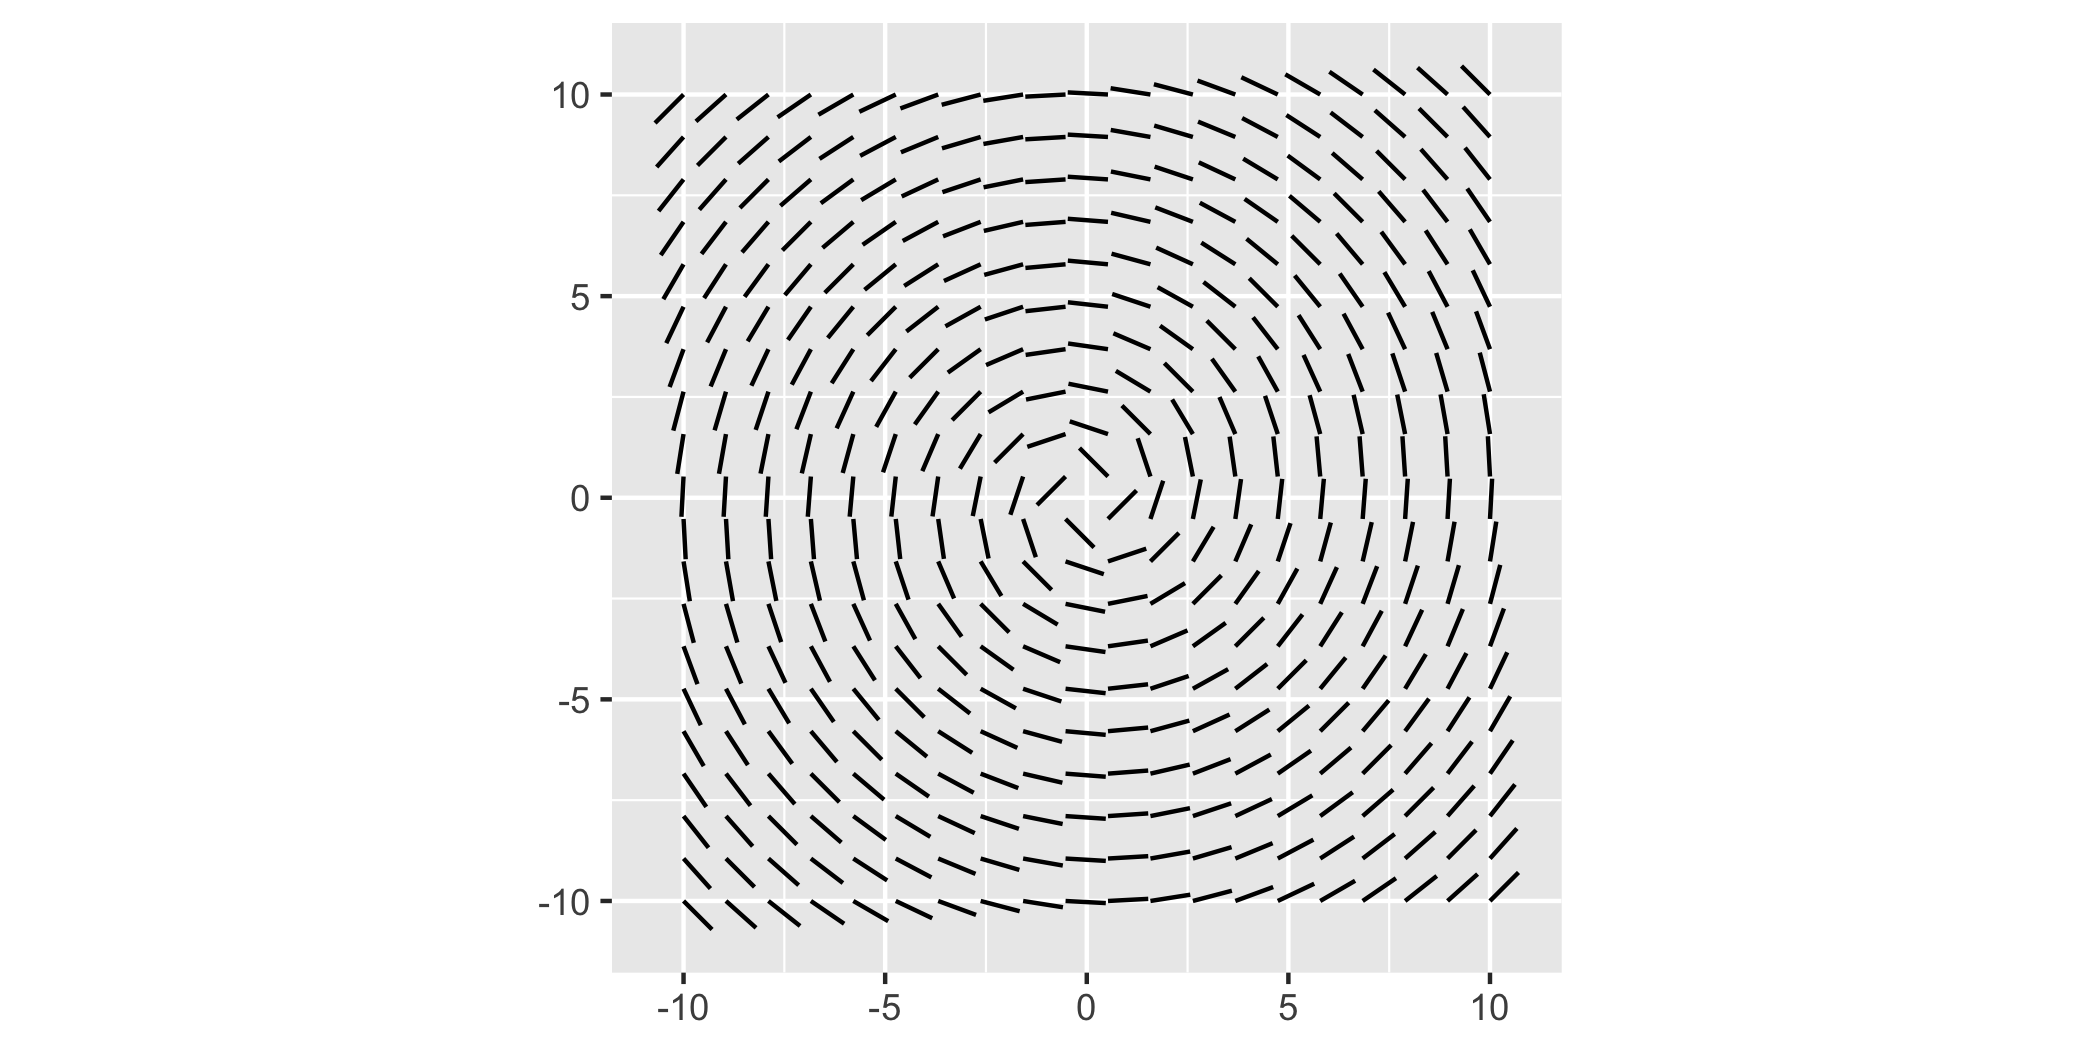
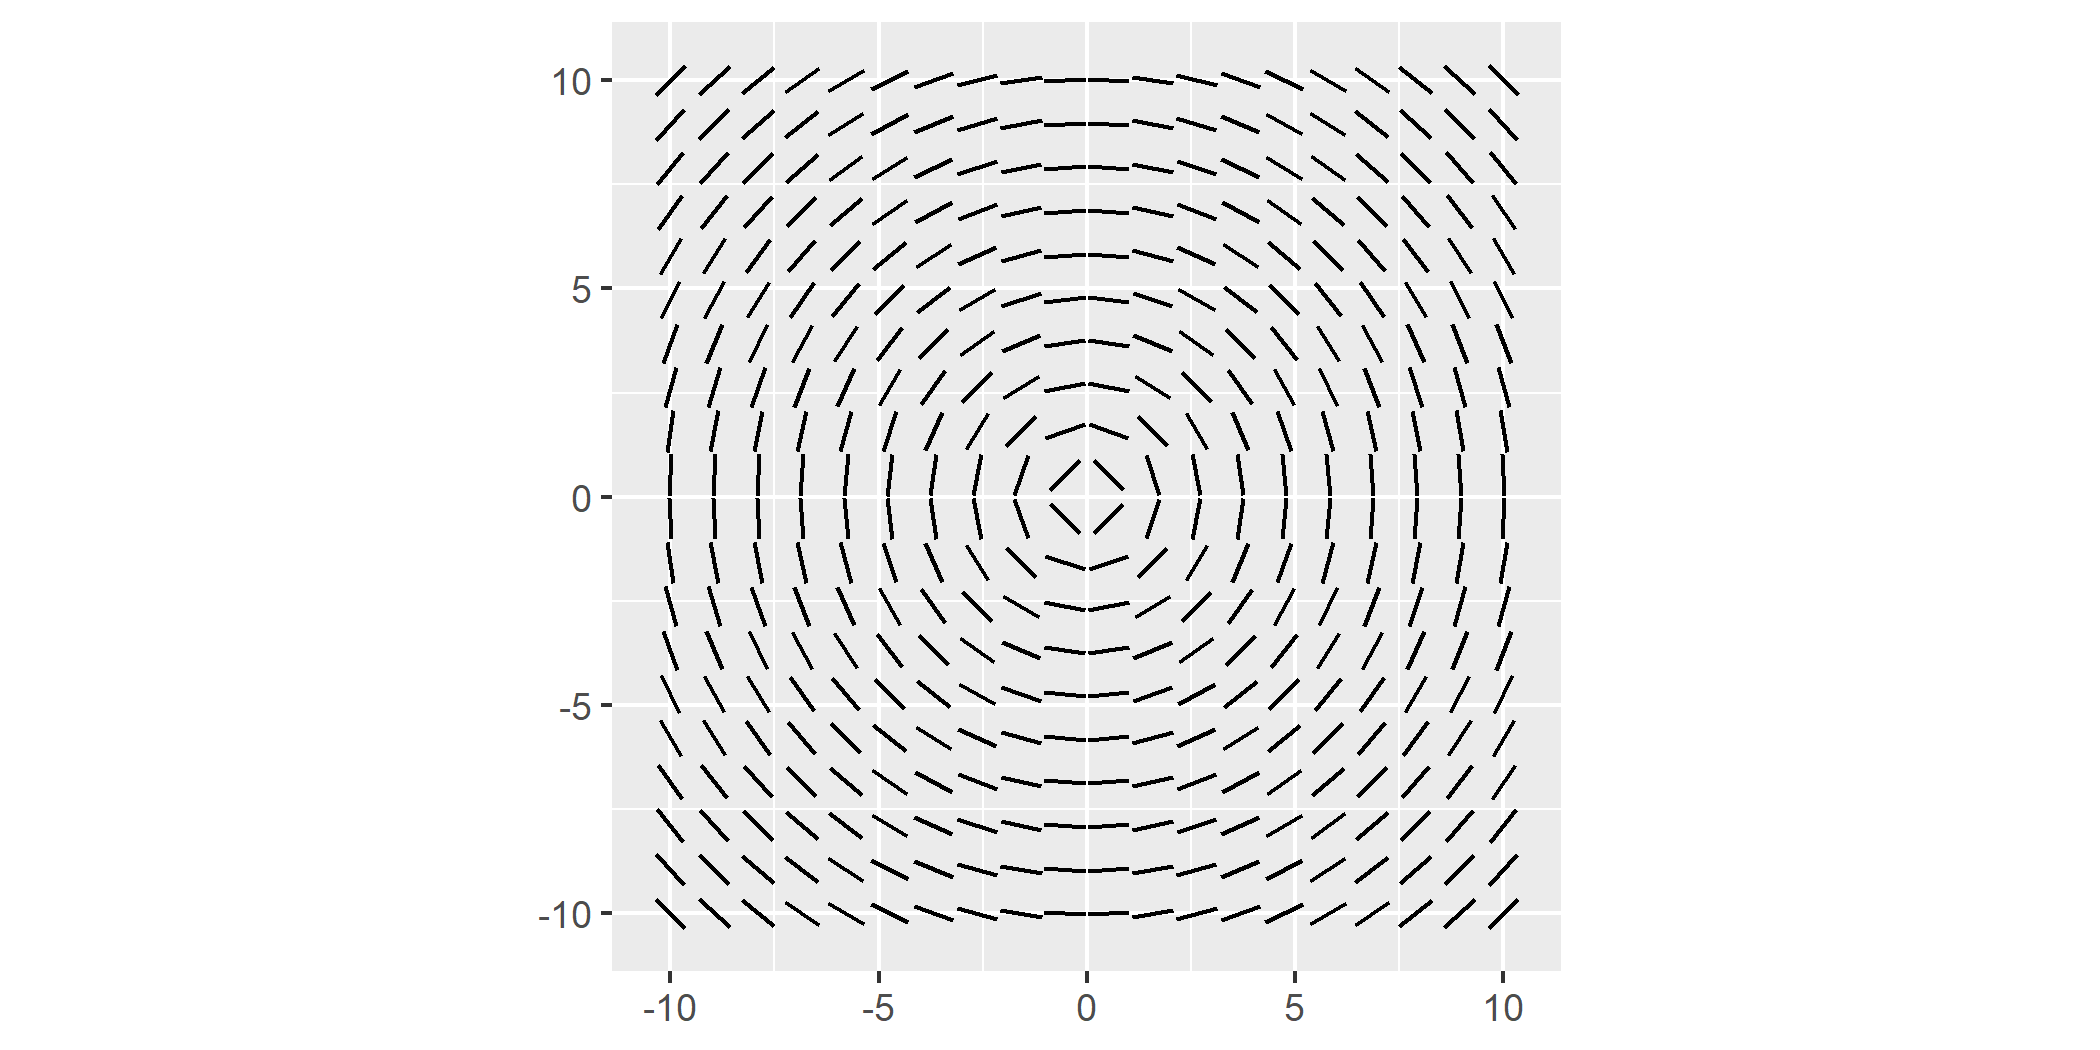
update readme to reflect center changes

diff --git a/README.md b/README.md
@@ -35,17 +35,17 @@ f <- function(x, y) {
 
 # create a ggplot with the vector field layer
 ggplot() +
-  geom_vector_field(fun = f, xlim = c(-10, 10), ylim = c(-10, 10), n = 20) +
+  geom_vector_field(fun = f, xlim = c(-10, 10), ylim = c(-10, 10), n = 20, center = TRUE) +
   coord_fixed()
 ```
 
 <img src="man/figures/README-unnamed-chunk-3-1.png" width="100%" />
 
-### `geom_complex_vector_field()`
+### `geom_complex_function()`
 
-The `geom_vector_field()` function generates a vector field plot layer
-using a user-defined function to compute the vector components. This
-function abstracts away the mathematical computations required to
+The `geom_complex_function()` function generates a vector field plot
+layer using a user-defined function to compute the vector components.
+This function abstracts away the mathematical computations required to
 generate the vector field, so the user does not need to manually
 calculate and input the vector components into `geom_segment()`. It
 simplifies the process, making it easier to create vector field
@@ -57,7 +57,7 @@ f <- function(z) (z^2 + 1) / (z^2 - 1)
 
 # create a ggplot with the complex vector field layer
 ggplot() +
-  geom_complex_vector_field(fun = f, relim = c(-2, 2), imlim = c(-2, 2), n = 100) +
+  geom_complex_function(fun = f, relim = c(-2, 2), imlim = c(-2, 2), n = 100) +
   coord_fixed()
 ```
 
